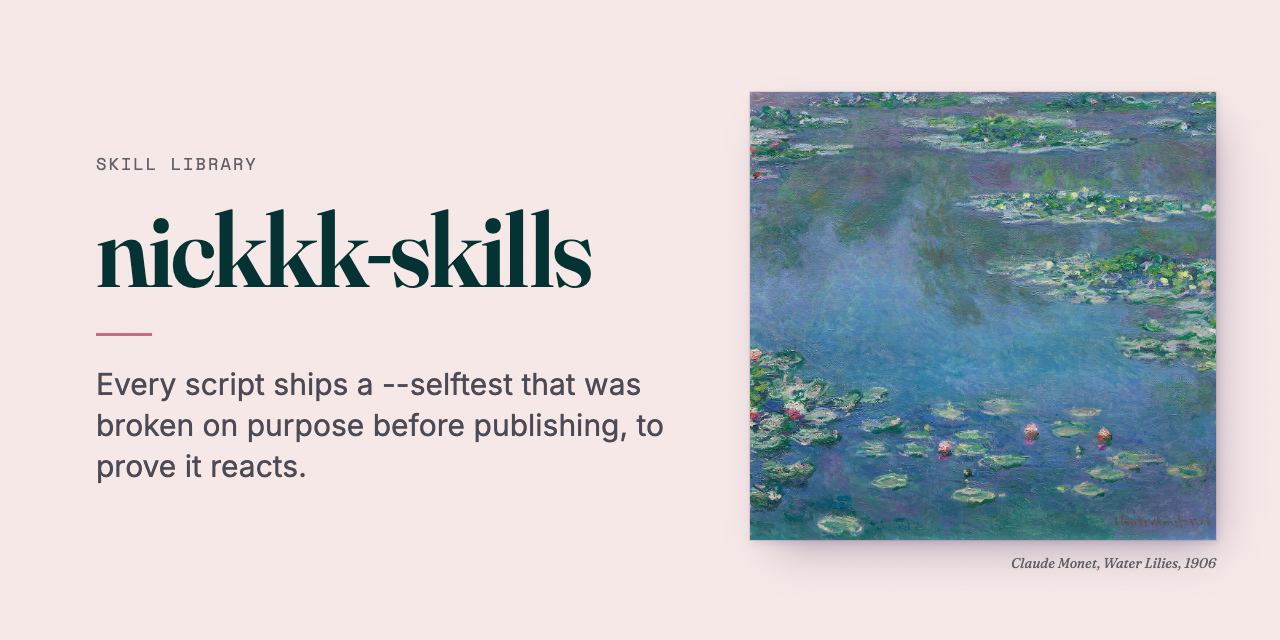
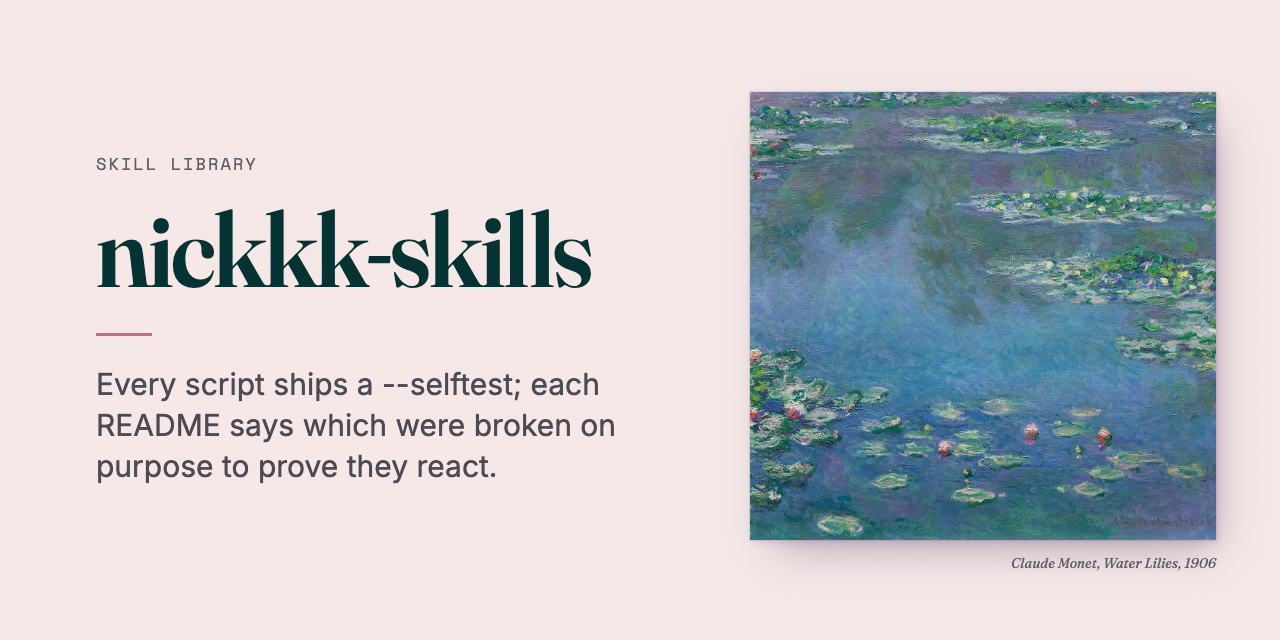
Marketplace versions for this round; say which self-tests were broken on purpose
The marketplace now lists nk-data-story 0.1.3, nk-deck 0.1.2, nk-design 0.1.4,
nk-git-guardrail-hook 0.1.3, nk-landing 0.1.3, nk-model 0.1.2, nk-novel 0.1.3,
nk-post-kit 0.2.3 and nk-publish-gate 0.1.2.

The README said every script's self-test was broken on purpose before
publishing. nk-deck, nk-landing and nk-model each ship scripts that have a
self-test but no break matrix, as their Verify sections say, so the README now
points to those sections, and the note on how these were built says what was
done: checks broken on purpose in a sandbox copy, each break turning its own
sample red without a crash. The collection's banner carries the corrected
sentence, and nk-post-kit's banner gets its missing full stop.

tools/skill_lint.py: the docstring no longer refers to notes that are not part
of this repository. No rule changed. docs/design-tokens.css: the Type
section's comment says v4 changed the palette, not the type, instead of
referring to a brief.

Changed region(s): [[0.0625, 0.5625, 0.5312, 0.6875], [0.0938, 0.7188, 0.4062, 0.75]]

diff --git a/docs/design-tokens.css b/docs/design-tokens.css
@@ -154,7 +154,7 @@
   --viz-grid: var(--border); --viz-axis: var(--text-3);
   --viz-unknown: repeating-linear-gradient(135deg, #bebcc8 0 3px, transparent 3px 7px);
 
-  /* ---- 9. Type (unchanged from v3.1: the brief changed the palette, not the type) ---- */
+  /* ---- 9. Type (unchanged from v3.1: v4 changed the palette, not the type) ---- */
   --font-display: "Fraunces", "Fraunces Fallback", Georgia, "Noto Serif SC", "Songti SC", serif;
   --font-sans:    "Inter", "Inter Fallback", system-ui, -apple-system, "Segoe UI", Roboto, "PingFang SC", "Hiragino Sans GB", "Microsoft YaHei", "Noto Sans CJK SC", sans-serif;
   --font-mono:    "Space Mono", "Space Mono Fallback", ui-monospace, "SF Mono", Menlo, Consolas, "Liberation Mono", monospace;

diff --git a/tools/skill_lint.py b/tools/skill_lint.py
@@ -1,5 +1,5 @@
 #!/usr/bin/env python3
-"""skill_lint.py — structural gate for the skills in this lab (run before publish_gate.py).
+"""skill_lint.py — structural gate for an agent skill folder (run before publish_gate.py).
 
     python3 skill_lint.py <skill-dir> [<skill-dir> ...]
     python3 skill_lint.py --selftest
@@ -8,16 +8,16 @@ Exit: 0 clean · 1 findings · 2 selftest failed / usage error (fail-loud: no re
 selftest fails). The selftest and the real run share check_skill(); each rule has a sample that only it
 catches, plus a clean control sample that must produce zero findings.
 
-Rules (from the Agent Skills format notes and this collection's publishing rules):
+Rules:
   L01 SKILL.md exists                         L02 frontmatter parses; unknown keys -> W01 (warning only)
   L03 name == dir name, kebab-case, <= 64     L04 description 1..1024 chars and says when to use it
-  L05 body <= 500 lines                        L06 a '## Provenance' section exists (charter §5b)
+  L05 body <= 500 lines                        L06 a '## Provenance' section exists
   L07 scripts referenced via ${CLAUDE_SKILL_DIR}, referenced scripts exist, shipped scripts are referenced
-  L08 every shipped script supports --selftest L09 no post-kit/ inside the skill dir (it stays in the lab)
+  L08 every shipped script supports --selftest L09 no post-kit/ inside the skill dir (launch drafts do not ship)
   L10 license field present                    L11 no local absolute paths (macOS/Linux home dirs, a home Desktop, Windows user dirs)
   L12 a skill that uses ${CLAUDE_SKILL_DIR} carries a path note for other agents (the placeholder written as
       ${…SKILL_DIR}, telling them to put in the skill folder's absolute path), placed before the first use —
-      Codex, Cursor and Gemini CLI do not fill the variable in (format notes, appendix D)
+      Codex, Cursor and Gemini CLI do not fill the variable in
 """
 import os, re, sys, tempfile, shutil
 

diff --git a/README.md b/README.md
@@ -9,7 +9,8 @@ Agent skills for Claude Code, tested in OpenAI Codex too. nk-novel, nk-design, n
   that need only the standard library (two nk-post-kit scripts also need Pillow), and reference files such as
   formats, checklists and worked examples; for several skills they also record the incidents or review rounds
   behind the rules.
-- Every script ships a `--selftest` that was broken on purpose before publishing, to prove it reacts.
+- Every script ships a `--selftest`; each skill's README says which of them were broken on purpose before
+  publishing to prove they react.
 - Each skill lives in its own repository; this one is the directory, the plugin marketplace and the shared lint.
 
 <!-- gallery:by-category -->
@@ -181,7 +182,8 @@ python3 tools/skill_lint.py --selftest
 - Every SKILL.md ends with a Provenance section that says where its rules came from; for most skills that is
   the incidents or review rounds behind them. Two guardrail rules (`rm -rf` on a project root, `curl | sh`) have
   no recorded incident; their prompts say why the step is irreversible or dangerous.
-- Every checker's self-test shares the production code path and was broken on purpose to prove it reacts.
+- Before publishing, checks were broken on purpose in a sandbox copy, and each break had to turn its own sample
+  red without a crash; each skill's Verify section says which scripts that covered.
 - Detectors fail loud; the guardrail hook fails open.
 - Every repository went through the nk-publish-gate skill (tree and full history) before its first push.
 
